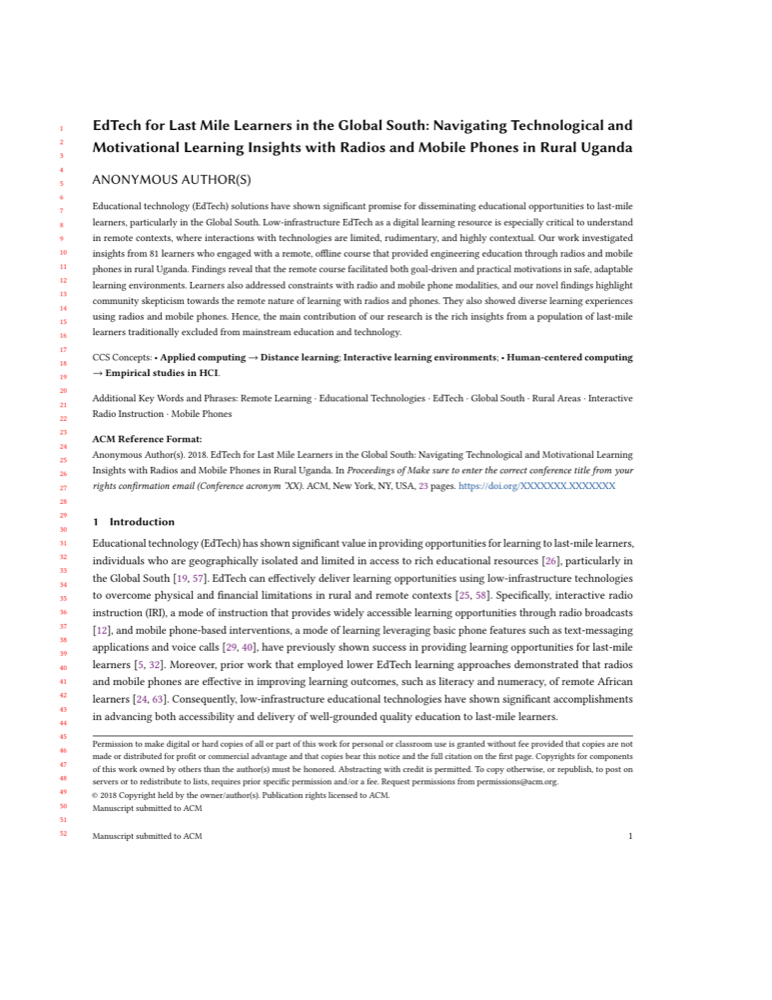
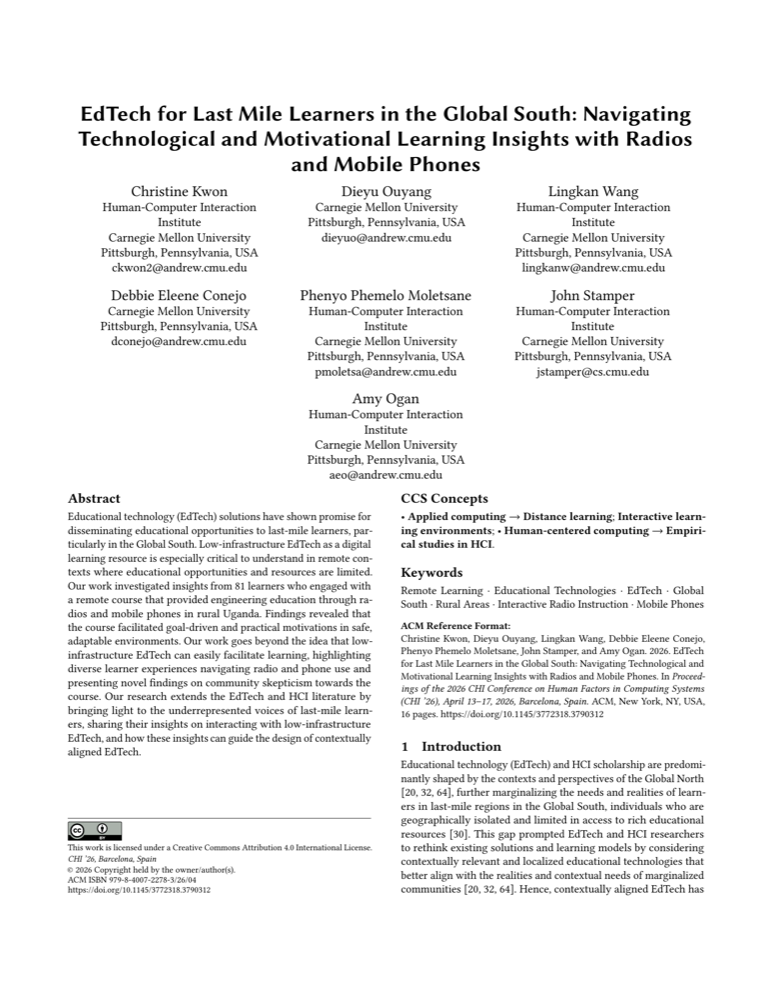
feat(research): whole-sheet hover scale, CHI camera-ready, add ICLS paper
- Hover now scales the whole white sheet (the bg-white div) instead of
  only the page image, so the paper grows as a unit (still 1.03 /
  duration-500 ease-out, matching home Selected Work).
- Replace the CHI cover with the de-anonymized CHI '26 camera-ready first
  page; mark that paper Published (it has an ACM DOI; conference held
  April 2026).
- Add a new card for "Language Preferences and Practices in Multilingual
  EdTech" (ICLS 2026) with its own first-page cover.

Changed region(s): [[0.0622, 0.093, 0.9326, 0.899], [0.0622, 0.403, 0.0933, 0.434], [0.0622, 0.279, 0.0933, 0.31]]

diff --git a/app/research/page.tsx b/app/research/page.tsx
@@ -21,16 +21,16 @@ export default function ResearchPage() {
           <Reveal key={p.title} delay={(i % 2) * 0.05}>
             <article>
               {/* the paper sits on a grey mat as a single sheet — ~2/3 of the
-                  frame. On hover the page scales a touch inside the sheet,
-                  matching the Selected Work cards on the home page. */}
+                  frame. On hover the whole white sheet scales a touch, matching
+                  the Selected Work cards on the home page. */}
               <div className="group flex items-center justify-center rounded-xl border border-border bg-[#fafafa] px-6 py-10 sm:py-12">
-                <div className="relative aspect-[773/1000] w-2/3 overflow-hidden rounded-[3px] bg-white shadow-[0_1px_1px_rgba(0,0,0,0.04),0_6px_16px_-6px_rgba(0,0,0,0.12)] ring-1 ring-black/[0.06]">
+                <div className="relative aspect-[773/1000] w-2/3 overflow-hidden rounded-[3px] bg-white shadow-[0_1px_1px_rgba(0,0,0,0.04),0_6px_16px_-6px_rgba(0,0,0,0.12)] ring-1 ring-black/[0.06] transition-transform duration-500 ease-out group-hover:scale-[1.03] motion-reduce:group-hover:scale-100">
                   <Image
                     src={p.cover}
                     alt={`${p.title} — first page`}
                     fill
                     sizes="(max-width: 640px) 66vw, 340px"
-                    className="object-cover object-top transition-transform duration-500 ease-out group-hover:scale-[1.03] motion-reduce:group-hover:scale-100"
+                    className="object-cover object-top"
                   />
                 </div>
               </div>

diff --git a/lib/research.ts b/lib/research.ts
@@ -16,7 +16,7 @@ export const research: Paper[] = [
     title: "EdTech for Last Mile Learners in the Global South",
     venue: "CHI",
     year: 2026,
-    status: "Under review",
+    status: "Published",
     tags: ["HCI", "EdTech", "Global South", "Field Study"],
     summary:
       "How do you teach engineering with no internet? A study of 81 learners in rural Uganda taking an offline course over radio and basic phones — surfacing the motivational and technological realities of low-infrastructure EdTech for last-mile communities.",
@@ -41,6 +41,16 @@ export const research: Paper[] = [
     summary:
       "The first empirical look at learner agency in bilingual remote EdTech: how Ugandan learners chose between English and Leb-Lango in a radio-and-phone course, and what that reveals about designing inclusive multilingual learning.",
     cover: "/research/multilingual.png",
+  },
+  {
+    title: "Language Preferences and Practices in Multilingual EdTech",
+    venue: "ICLS",
+    year: 2026,
+    status: "Under review",
+    tags: ["EdTech", "Multilingual", "Language Choice", "Uganda"],
+    summary:
+      "When a remote course lets Ugandan learners pick English, Leb-Lango, or a hybrid of both, how do they actually use language? Hybrid learners who genuinely drew on both persisted longer — early evidence for flexible primary-language use with secondary-language support.",
+    cover: "/research/language-preferences.png",
   },
   {
     title: "Auto-generating Road Trip Vlogs While Safe-driving",
